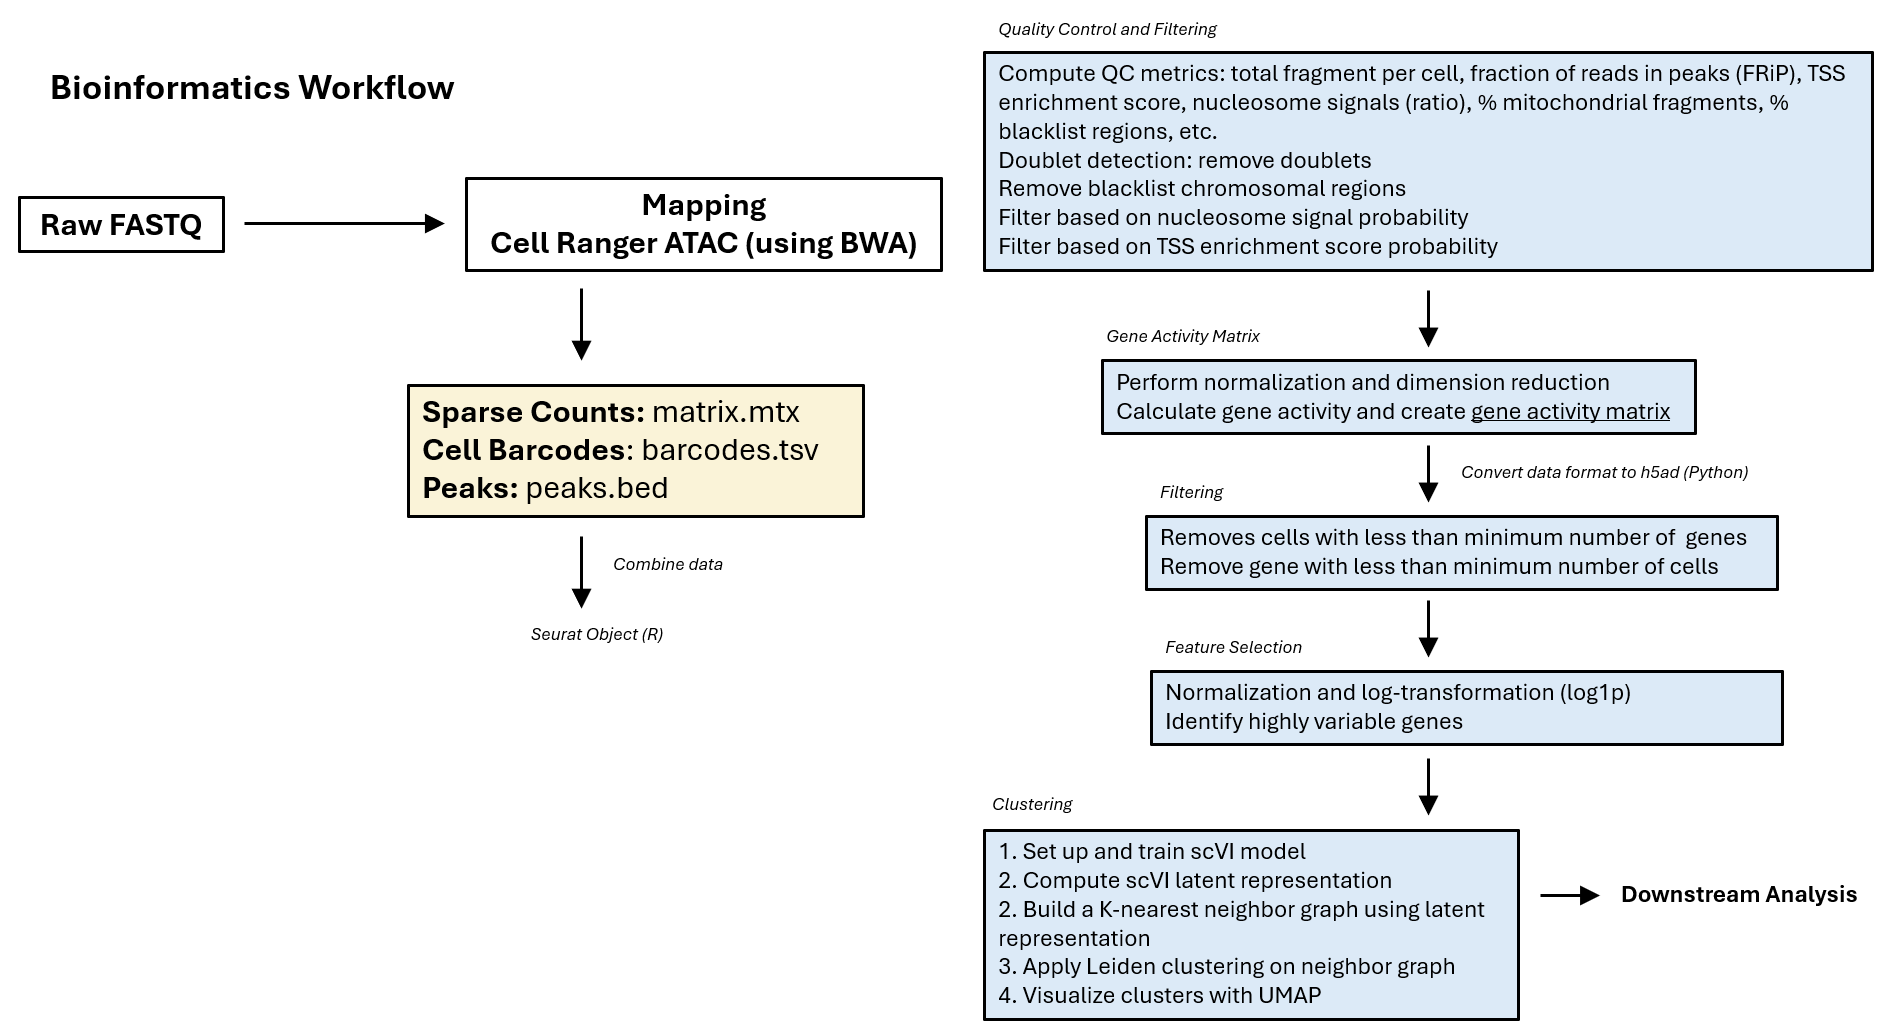
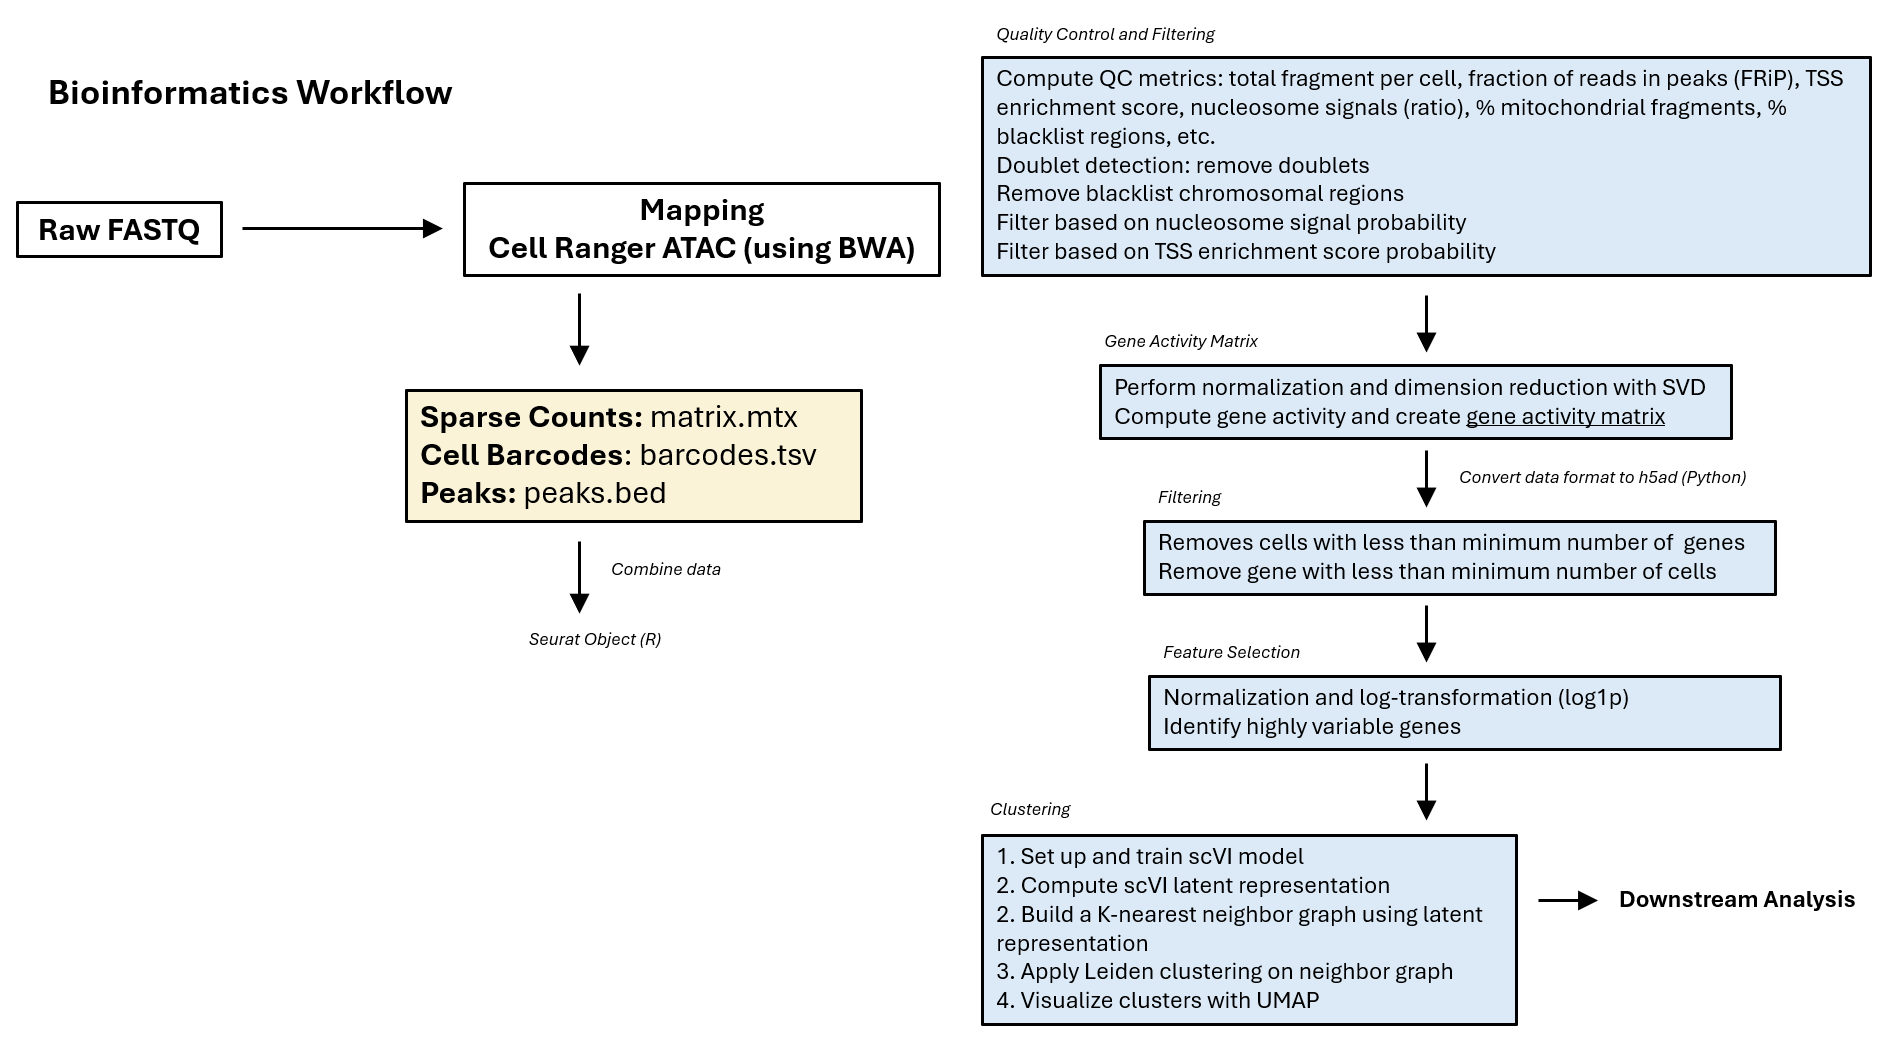
commit

diff --git a/README.md b/README.md
@@ -53,21 +53,21 @@ Figure 2.  Workflow of single-cell ATAC-seq.
 
 Datasets. <i>scRNA-seq</i>: raw data (Chromium, 10X Genomics) were obtained from NCBI GEO accession GSE176078 (Wu <i>et al.</i>, 2021).  Samples were sequenced by Illumina sequencer and data (mapped to hg38) were generated using Cell Ranger Single Cell v2.0 (10X Genomics).  Ten samples (estrogen receptor-positive (ER+), primary breast tumor: CID3941, CID4040, CID4463, CID4535; human epidermal growth factor receptor 2-positive (HER2+), primary breast tumor: CID3838, CID3921, CID45171; triple-negative breast cancer (TNBC), primary breast tumor: CID3946, CID4465, CID44041) were selected in this study.  <i>scATAC-seq</i>: preprocessed data (MCF-7 DMSO; 10X single-cell ATAC-seq) were obtained from GEO accession GSE190162 (Bommi-Reddy <i>et al.</i>, 2022).  Sample was sequenced by Illumina sequencer and data (mapped to hg38) were generated using Cell Ranger ATAC (10X Genomics).
 
-Data processing.  <i>scRNA-seq</i>: data in each sample were first filtered based on minimum number of genes required for each cell (removed if < 200), minimum number of cells required for each gene (removed if < 100), doublet detection using SOLO model (Bernstein <i>et al.</i>, 2020), and outliers (removed if gene count per cell is greater than 98 percentile or less than 2 percentile).  Cells were also removed if mitochondrial and ribosomal gene percentages were greater than or equal to 20%.  Samples were then integrated afterward.  Data were normalized and filtered additionally for highly variable genes prior to transfer learning for cell type annotation.  Cell type reference in breast tissue data (TS_Mammary) from Tabula Sapiens Consortium (Science 376, eabl4896, 2022) was used as training labels.  SCVI model (an unsupervised generative model) was used to train data to learn latent representation, and followed by SCANVI model (a semi-supervised generative model) which was used to predict cell type for unlabled sample cells.  UMAP dimensional reduction was performed.  Leiden clustering was used to define specific cell type clusters.  Models were implemented with svi-tools in Python. <i>scATAC-seq</i>: data were further processed using Seurat v5.3.0 (Stuart <i>et al.</i>, 2019; Hao <i>et al.</i>, 2021; Hao <i>et al.</i>, 2023) and Signac v1.14.0 (Suart <i>et al.</i>, 2021) in R and Scanpy in Python.  Minimum number of genes required for each cell (removed if < 200) and minimum number of cells required for each gene (removed if < 100) were required.  Doublets were removed using scDblFinder v1.16.0 (Germain <i>et al.</i>, 2022).  Cells with a high black-listed gene ratio (greater than or equal to 0.05) were removed, as previously described in the data processing method (Bommi-Reddy <i>et al.</i>, 2022).  The other two quality control metrics of ATAC-seq, namely nucleosome signal and transcriptional start site (TSS) enrichment score, were described in the ENCODE project.  Nucleosome signal is a measure of ratio of mononucleosomal to nucleosome-free fragments (https://www.encodeproject.org/atac-seq/), and TSS enrichment score is a signal-to-noise ratio of reads aggregated at the TSS to those in the flanking regions (https://www.encodeproject.org/data-standards/terms/).  The bottom 2% and top 98% were filtered out based on these two metrics.  Data were normalized.  Singular Value Decomposition (SVD) was used to reduced the number of variables in the data.  Latent semantic Indexing (LSI) method was used in UMAP dimensional reduction and clustering.  Genes (from EnsDB.Hsapiens.v86) were annotated based on chromatin accessiblilty peaks (gene activity) at the gene location for each cell.
+Data processing.  <i>scRNA-seq</i>: data in each sample were first filtered based on minimum number of genes required for each cell (removed if < 200), minimum number of cells required for each gene (removed if < 100), doublet detection using SOLO model (Bernstein <i>et al.</i>, 2020), and outliers (removed if gene count per cell is greater than 98 percentile or less than 2 percentile).  Cells were also removed if mitochondrial and ribosomal gene percentages were greater than or equal to 20%.  Samples were then integrated afterward.  Data were normalized and filtered additionally for highly variable genes prior to transfer learning for cell type annotation.  Cell type reference in breast tissue data (TS_Mammary) from Tabula Sapiens Consortium (Science 376, eabl4896, 2022) was used as training labels.  SCVI model (an unsupervised generative model) was used to train data to learn latent representation, and followed by SCANVI model (a semi-supervised generative model) which was used to predict cell type for unlabled sample cells.  A neighbor graph KNN based on latent representation was built.  Leiden clustering was used to define specific cell type clusters and visualized by UMAP.  Models were implemented with svi-tools in Python. <i>scATAC-seq</i>: data were further processed using Seurat v5.3.0 (Stuart <i>et al.</i>, 2019; Hao <i>et al.</i>, 2021; Hao <i>et al.</i>, 2023) and Signac v1.14.0 (Suart <i>et al.</i>, 2021) in R and Scanpy (Wolf <i>et al.</i>, 2018) in Python.  Minimum number of genes required for each cell (removed if < 200) and minimum number of cells required for each gene (removed if < 100) were required.  Doublets were removed using scDblFinder v1.16.0 (Germain <i>et al.</i>, 2022).  Cells with a high black-listed gene ratio (greater than or equal to 0.05) were removed, as previously described in the data processing method (Bommi-Reddy <i>et al.</i>, 2022).  The other two quality control metrics of ATAC-seq, namely nucleosome signal and transcriptional start site (TSS) enrichment score, were described in the ENCODE project.  Nucleosome signal is a measure of ratio of mononucleosomal to nucleosome-free fragments (https://www.encodeproject.org/atac-seq/), and TSS enrichment score is a signal-to-noise ratio of reads aggregated at the TSS to those in the flanking regions (https://www.encodeproject.org/data-standards/terms/).  The top 98% and bottom 2% were filtered out based on these two metrics.  Data were normalized.  Singular Value Decomposition (SVD)-based Leiden clustering was performed.  The chromatin accessiblilty peaks were annotated with genes from EnsDB.Hsapiens.v86.  The resultant gene activity matrix was subject to SCVI-based Leiden clustering and UMAP visualization.
 
 
 <br>
 
 ## III. Results
 
-<i>Single-cell analysis</i>.  <i>scRNA-seq</i>.  A total of 10 primary breast tumor samples were initially processed, consisting of 919 cells and 29,733 genes.  Top 2,000 highly variable genes were selected for further analysis.  Distinct cell types were identified by leiden clustering.  There were 78 cell type clusters overall, namely fibroblast cell, luminal L1 cell, luminal L2 cell, macrophage, plasma cell, T cell, and vascular endothelial cell (Figure 1A).  Biomarker genes were used to verify the present cluster identity: CD3E for T cell; COL1A2 for fibroblast cell; CD4 for macrophage; PECAM1 for vascular endothelial cell; CLDN4 for luminal L1 cell (Nguyen <i>et al.</i>, 2018); ANKRD30A for luminal L2 cell (Nguyen <i>et al.</i>, 2018); and IGHG1 for plasma cell (Figure 1C).  By profiling gene expression, heterogenity in expression levels were observed in different cell types (Figure 1D).  <i>scATAC-seq</i>.  A MCF-7 cell line sample consisting of 1,588 cells and top 2,000 high variable genes was analyzed.  ZNF217 (Littlepage <i>et al.</i>, 2012) were selected as a biomarker for MCF-7 (Figure 2A).  Noticeably, there were some cells there were low-expressed or not labeled by the marker genes.  The likely explanation may be due to the additon of DMSO which had been reported to cause changes in cell state in response to stress (Tuncer <i>et al.</i>, 2018; Sangweni <i>et al.</i>, 2021).  The results show heterogenity within the MCF-7 cell line (Figure 2B).
+<i>Single-cell analysis</i>.  <i>scRNA-seq</i>.  A total of 10 primary breast tumor samples were initially processed, consisting of 919 cells and 29,733 genes.  Top 2,000 highly variable genes were selected for further analysis.  Distinct cell types were identified by Leiden clustering.  There were 8 cell type clusters, namely CD8 T cell, CD4 T cell, fibroblast cell, endothelial cell, macrophage, luminal cell, basal cell, and B cell (Figure 1A).  Biomarker genes were used to verify the present cluster identity (Figure 1B): CD3E was used as a pan-biomarker for T cells; CD8A for CD8 T cells; CD4 for CD4 T cells; FCGR3A for macrophages; MS4A1 for B cells; PECAM1 for endothelial cells; COL1A2 for fibroblast cells; KRT5 for basal cells; CLDN4 for luminal cells.  By profiling gene expression, heterogenity in expression levels were observed in different cell types (Figure 1C).  <i>scATAC-seq</i>.  A MCF-7 cell line sample was initially processed with 1,588 cells and 15,963 genes.  Top 2,000 high variable genes was analyzed.  ZNF217 (Littlepage <i>et al.</i>, 2012) were selected as a biomarker for MCF-7 (Figure 2A).  Noticeably, there were some cells there were low-expressed or not labeled by the marker genes.  The likely explanation may be due to the additon of DMSO which had been reported to cause changes in cell state in response to stress (Tuncer <i>et al.</i>, 2018; Sangweni <i>et al.</i>, 2021).  The results show heterogenity within the MCF-7 cell line (Figure 2B).
 
 <i>APA analysis</i>.  Highly variable expressed genes were matched to the terminal region (TR) genes in PolyADB-v3x-LR database (https://github.com/wcjohnchen/database).  A complete list of TR genes found in scRNA-seq (1,864) and scATAC-seq data (1,789) can be viewed using a dotplot in analyze_data_sc_RNASeq.ipynb and analyze_data_sc_ATACSeq.ipynb, respectively.  In particular, there are a number of 3'UTR APA genes (104) associated with onocogenes, tumor suppressor genes, and APA regulatory factors that have been reported to play known roles in breast cancer (review paper: <i>Qiao et al.</i>, 2024).  Among those genes, COL1A2, AGR2, TIMP3, TOP2A, CCND1, CCNA2, NFIA, SNCA, TRPS1, BHLHE40, and FOXP4 were found in scRNA-seq data (Figure 3A); likewise, PDGFC, WT1, SNCA, RBBP6, FGF2, TOP2A, PTCH1, HEY2, CSTF2 (displayed 3'UTR shortening using APARENT2 model: https://github.com/wcjohnchen/ML), and CPEB1 were found in scATAC-seq data (Figure 3B).  These APA genes displayed distinct expression patterns specific to their cell types.
 
 
 <br>
 
-Figure 3.  UMAP representation of cell type clusters (also see interactive UMAP plot).  (C) Cell type identification by biomarker genes: CD3E (T cell), COL1A2 (fibroblast cell), CD14 (macrophage), PECAM1 (vein endothelial cell), CLDN4 (luminal L1 cell), ANKRD30A (luminal L2 cell), and IGHG1 (plasma cell).  (D) Dotplot of gene expression profile of cell types identified.  Gene rank based on gene variability (tope 25 highly variable genes shown in each group).  0: T-cell; 1: fibroblast cell; 2: macrophage; 3: vascular endothelial cell; 4: luminal L1 cell; 5: luminal L2 cell; 6: plasma cell.
+Figure 3.  UMAP representation of cell type clusters (also see interactive UMAP plot).  (C) Cell type identification by biomarker genes: CD3E (T cells), CD8A (CD8 T cell), CD4 (CD4 T cell), FCGR3A (macrophage), MS4A1 (B cell), PECAM1 (endothelial cell), COL1A2 (fibroblast cell), KRT5 (basal cell), and CLDN4 (luminal cell).  (D) Dotplot of gene expression profile of cell types identified.  Gene rank based on gene variability (tope 25 highly variable genes shown in each group).  0: CD8 T Cell; 1: CD4 T Cell; 2: Fibroblast Cell; 3: Endothelial cell; 4: Macrophage; 5: Luminal Cell; 6: Basal Cell; 7: B Cell.
 
 
 (A)
@@ -78,7 +78,11 @@ Interactive UMAP plot: https://wcjohnchen.shinyapps.io/UMAP1/
 
 (B)
 
-<img src="figure/biomarkers_scrnaseq.png" style="width: 120%; height: 120%;">
+<img src="figure/biomarkers_scrnaseq_1.png" style="width: 120%; height: 120%;">
+
+
+<img src="figure/biomarkers_scrnaseq_2.png" style="width: 120%; height: 120%;">
+
 
 (C)
 
@@ -157,7 +161,7 @@ Hao Y, Stuart T, Kowalski MH, Choudhary S, Hoffman P, Hartman A, Srivastava A, M
 
 Littlepage LE, Adler AS, Kouros-Mehr H, Huang G, Chou J, Krig SR, Griffith OL, Korkola JE, Qu K, Lawson DA, Xue Q, Sternlicht MD, Dijkgraaf GJ, Yaswen P, Rugo HS, Sweeney CA, Collins CC, Gray JW, Chang HY, and Werb Z.  2012.  The transcription factor ZNF217 is a prognostic biomarker and therapeutic target during breast cancer progression. Cancer Discov, 2(7):638-51.  doi: 10.1158/2159-8290.CD-12-0093.
 
-Nguyen QH, Pervolarakis N, Blake K, Ma D, Davis RT, James N, Phung AT, Willey E, Kumar R, Jabart E, Driver I, Rock J, Goga A, Khan SA, Lawson DA, Werb Z, and Kessenbrock K.  2018.  Profiling human breast epithelial cells using single cell RNA sequencing identifies cell diversity. Nat Commun, 9(1):2028.  doi: 10.1038/s41467-018-04334-1.
+aaaaaa Nguyen QH, Pervolarakis N, Blake K, Ma D, Davis RT, James N, Phung AT, Willey E, Kumar R, Jabart E, Driver I, Rock J, Goga A, Khan SA, Lawson DA, Werb Z, and Kessenbrock K.  2018.  Profiling human breast epithelial cells using single cell RNA sequencing identifies cell diversity. Nat Commun, 9(1):2028.  doi: 10.1038/s41467-018-04334-1.
 
 Qiao P, Zhang C, Shi Y, and Du H.  2024.  The role of alternative polyadenylation in breast cancer.  Front Genet, 15:1377275.  doi: 10.3389/fgene.2024.1377275.
 
@@ -170,6 +174,8 @@ Stuart T, Butler A, Hoffman P, Hafemeister C, Papalexi E, Mauck WM 3rd, Hao Y, S
 Stuart T, Srivastava A, Madad S, Lareau CA, and Satija R.  2022.  Single-cell chromatin state analysis with Signac.  Nat Methods, 18(11):1333-1341.  doi: 10.1038/s41592-021-01282-5.  Erratum in: 2022.  Nat Methods, 19(2):257.  doi: 10.1038/s41592-022-01393-7.
 
 Tunçer S, Gurbanov R, Sheraj I, Solel E, Esenturk O, and Banerjee S.  2018.  Low dose dimethyl sulfoxide driven gross molecular changes have the potential to interfere with various cellular processes.  Sci Rep, 8(1):14828.  doi: 10.1038/s41598-018-33234-z.
+
+Wolf FA, Angerer P, and Theis FJ.  2018.  SCANPY: large-scale single-cell gene expression data analysis.  Genome Biol, 19(1):15.  doi: 10.1186/s13059-017-1382-0. PMID: 29409532; PMCID: PMC5802054.
 
 Wu SZ, Al-Eryani G, Roden DL, Junankar S, Harvey K, Andersson A, Thennavan A, Wang C, Torpy JR, Bartonicek N, Wang T, Larsson L, Kaczorowski D, Weisenfeld NI, Uytingco CR, Chew JG, Bent ZW, Chan CL, Gnanasambandapillai V, Dutertre CA, Gluch L, Hui MN, Beith J, Parker A, Robbins E, Segara D, Cooper C, Mak C, Chan B, Warrier S, Ginhoux F, Millar E, Powell JE, Williams SR, Liu XS, O'Toole S, Lim E, Lundeberg J, Perou CM, and Swarbrick A.  2021.  A single-cell and spatially resolved atlas of human breast cancers.  Nat Genet, 53(9):1334-1347.  doi: 10.1038/s41588-021-00911-1.
 
